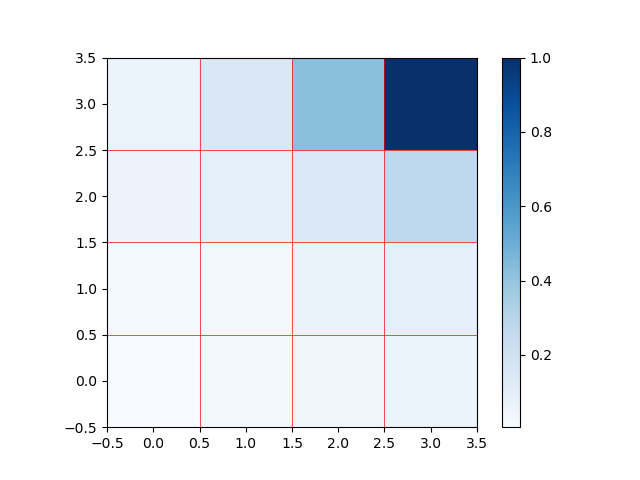
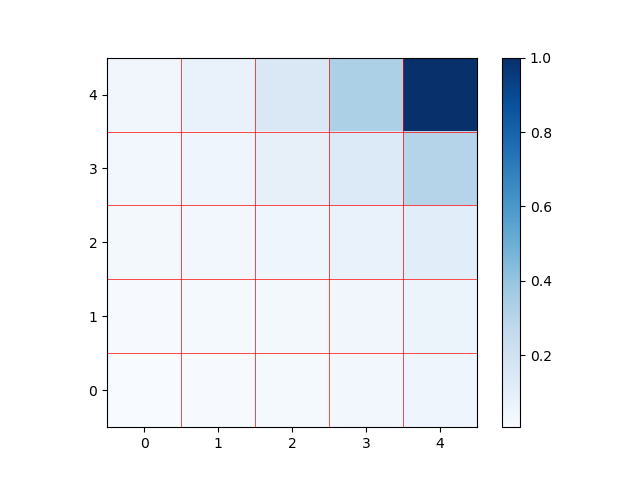
updates

diff --git a/src/main.py b/src/main.py
@@ -15,22 +15,103 @@ import os
 def get_policy(start):
     pass
 
-def sttl_goal_reach():
+def sttl_goal_reach(D, goal):
     '''
-        F (Pr[pos = goal] > 0.99)
+        F[0, T] (Pr[pos = goal] > threshold)
     '''
-    pass
+    goal = goal[0]
+    end_time = 12
+    threshold = 0.99
 
-def sttl_obstacle_avoid():
+    formula = "F[0,{}] (Pr[pos = goal] > {})".format(end_time, threshold)
+    print("StTL goal-reach formula: ", formula)
+
+    count = 0
+    n_samples = len(D)
+    for sample in D:
+        visited = []
+        transitions = sample._t
+        n = len(transitions)
+        for i in range(n):
+            visited.append(transitions[i][0])
+        visited.append(transitions[-1][-1])
+        # print(transitions)
+        # print(visited)
+        idx = visited.index(goal)
+        if idx <= end_time:
+            count += 1
+    
+    prob = (count / n_samples)
+    rho = prob - threshold
+
+    # print("Probability of reaching the goal: %.2f" % (prob))
+
+    return rho
+
+def get_d2obs(policy, avoid_states):
+    d2obs = []
+    for s in policy:
+        dmin = float("inf")
+        for obs in avoid_states:
+            d = abs(s - obs)
+            dmin = min(dmin, d)
+        d2obs.append(dmin)
+    return d2obs
+
+def sttl_obstacle_avoid(D, goal, avoid_states):
     '''
-        G (Pr[dist2obs > 2] > 0.99)
+        G (Pr[dist2obs > dmin] > 0.99)
     '''
-    pass
+    goal = goal[0]
+    threshold = 0.99
+    dmin = 2
+
+    formula = "G (Pr[dist2obs > {}] > {})".format(dmin, threshold)
+    print("StTL obstacle-avoidance formula: ", formula)
+
+    count = 0
+    n_samples = len(D)
+    for sample in D:
+        visited = []
+        transitions = sample._t
+        n = len(transitions)
+        for i in range(n):
+            visited.append(transitions[i][0])
+        visited.append(transitions[-1][-1])
+        # print(transitions)
+        # print(visited)
+        d2obs = np.array(get_d2obs(visited, avoid_states))
+        d = np.min(d2obs - dmin)
+        if d <= 0:
+            count += 1
+
+    prob = (count / n_samples)
+    rho = prob - threshold
+
+    # print("Probability of reaching the goal: %.2f" % (prob))
+
+    return rho
 
 def main():
-    reward_mce, world, goal = I.mce_irl()
-    value = S.value_iteration(world.p_transition, reward_mce, discount = 0.7)
-    weighting = lambda x: x**5
+    # Grid-world setup parameters
+    grid_size = 5 # grid-world size
+    p_slip = 0.3 # slip. with probability p_slip, agent chooses other 3 actions
+    avoid_states = [7, 8]
+    
+    '''
+    Ground-truth MDP reward:
+        1. reaching the goal gets a reward of +10
+        2. reaching avoid-region gets reward 0
+        3. any other state gets reward of +1
+    NOTE: This somehow does not learn with negative rewards (idk why),
+    so I manually designed the ground-truth rewards.
+    '''
+    # Generate MCE-IRL rewards from demonstrations
+    reward_mce, world, goal = I.mce_irl(grid_size, p_slip, avoid_states)
+
+    discount = 0.7 # same as gamma for value iteration
+    value = S.value_iteration(world.p_transition, reward_mce, discount)
+    weighting = lambda x: x**1 # giving importance to sub-optimal actions
     policy = S.stochastic_policy_from_value(world, value, w=weighting)
     policy_exec = T.stochastic_policy_adapter(policy)
 
@@ -38,14 +119,24 @@ def main():
     # print("Policy\n", policy)
     # print("Policy Exec\n", policy_exec)
 
+    # Randomly sample policies from the learned reward function
     D = []
     np.random.seed(0)
-    for _ in range(3):
+    n_samples = 20
+    for _ in range(n_samples):
         start = np.random.randint(0, 16)
         sample = T.generate_trajectory(world, policy_exec, start, goal)
         # print("Start: %d, Policy:" %(start))
         D.append(sample)
 
+    print("\nTotal samples: %d\n" %(n_samples))
+    # Compute the robustness of goal-reach STTL
+    rho = sttl_goal_reach(D, goal)
+    print("StTL goal-reach robustness = %.2f\n" % (rho))
+
+    # Compute the robustness of obstacle avoidance STTL
+    rho = sttl_obstacle_avoid(D, goal, avoid_states)
+    print("StTL obstacle-avoidance robustness = %.2f\n" % (rho))
 
 if __name__ == "__main__":
     main()

diff --git a/src/mce_irl.py b/src/mce_irl.py
@@ -11,19 +11,23 @@ import numpy as np
 import matplotlib.pyplot as plt
 import os
 
-def setup_mdp():
+def setup_mdp(GRID_SIZE, p_slip, avoid_states):
     """
     Set-up our MDP/GridWorld
     """
-    GRID_SIZE = 4
     # create our world
-    world = W.IcyGridWorld(size=GRID_SIZE, p_slip=0.3)
+    world = W.IcyGridWorld(size=GRID_SIZE, p_slip=p_slip)
 
     # set up the reward function
-    reward = np.zeros(world.n_states)
+    # reward = np.zeros(world.n_states)
 
-    reward[-1] = 1.0
-    reward[8] = 0.0
+    reward = np.ones(world.n_states)
+
+    reward[-1] = 10.0
+
+    # Define some obstacles or avoid regions
+    for s in avoid_states:
+        reward[s] = 0
 
     # set up terminal states
     terminal = [GRID_SIZE**2-1]
@@ -37,7 +41,8 @@ def generate_trajectories(world, reward, terminal):
     Generate some "expert" trajectories.
     """
     # parameters
-    n_trajectories = 20
+    n_trajectories = 200
+    print("\nNumber of experts: %d\n" %(n_trajectories))
     discount = 0.7
     weighting = lambda x: x**5
 
@@ -95,7 +100,7 @@ def maxent_causal(world, terminal, trajectories, discount=0.7):
 
     return reward
 
-def mce_irl():
+def mce_irl(grid_size, p_slip, avoid_states):
 
     cwd = os.getcwd()
     fig_dir = "figs"
@@ -109,7 +114,7 @@ def mce_irl():
     }
 
     # set-up mdp
-    world, reward, terminal = setup_mdp()
+    world, reward, terminal = setup_mdp(grid_size, p_slip, avoid_states)
 
     # show our original reward
     ax = plt.figure(num='Original Reward').add_subplot(111)
@@ -120,7 +125,7 @@ def mce_irl():
     plt.savefig(os.path.join(fig_dir, "gt_reward.png"))
 
 
-    print("Generating trajectories ...")
+    print("\nGenerating expert trajectories ...\n")
     # generate "expert" trajectories
     trajectories, expert_policy = generate_trajectories(world, reward, terminal)
 
@@ -146,7 +151,7 @@ def mce_irl():
     plt.draw()
     '''
 
-    print("MCE-IRL")
+    print("\nPerforming MCE-IRL ...\n")
     # maximum casal entropy reinforcement learning (non-causal)
     reward_maxcausal = maxent_causal(world, terminal, trajectories)
 
@@ -159,7 +164,7 @@ def mce_irl():
     plt.draw()
     plt.savefig(os.path.join(fig_dir, "maxent_causal_reward.png"))
 
-    print("Done!")
+    print("\nDone! Rewards learned\n")
 
     # plt.show()
     return (reward_maxcausal, world, terminal)
